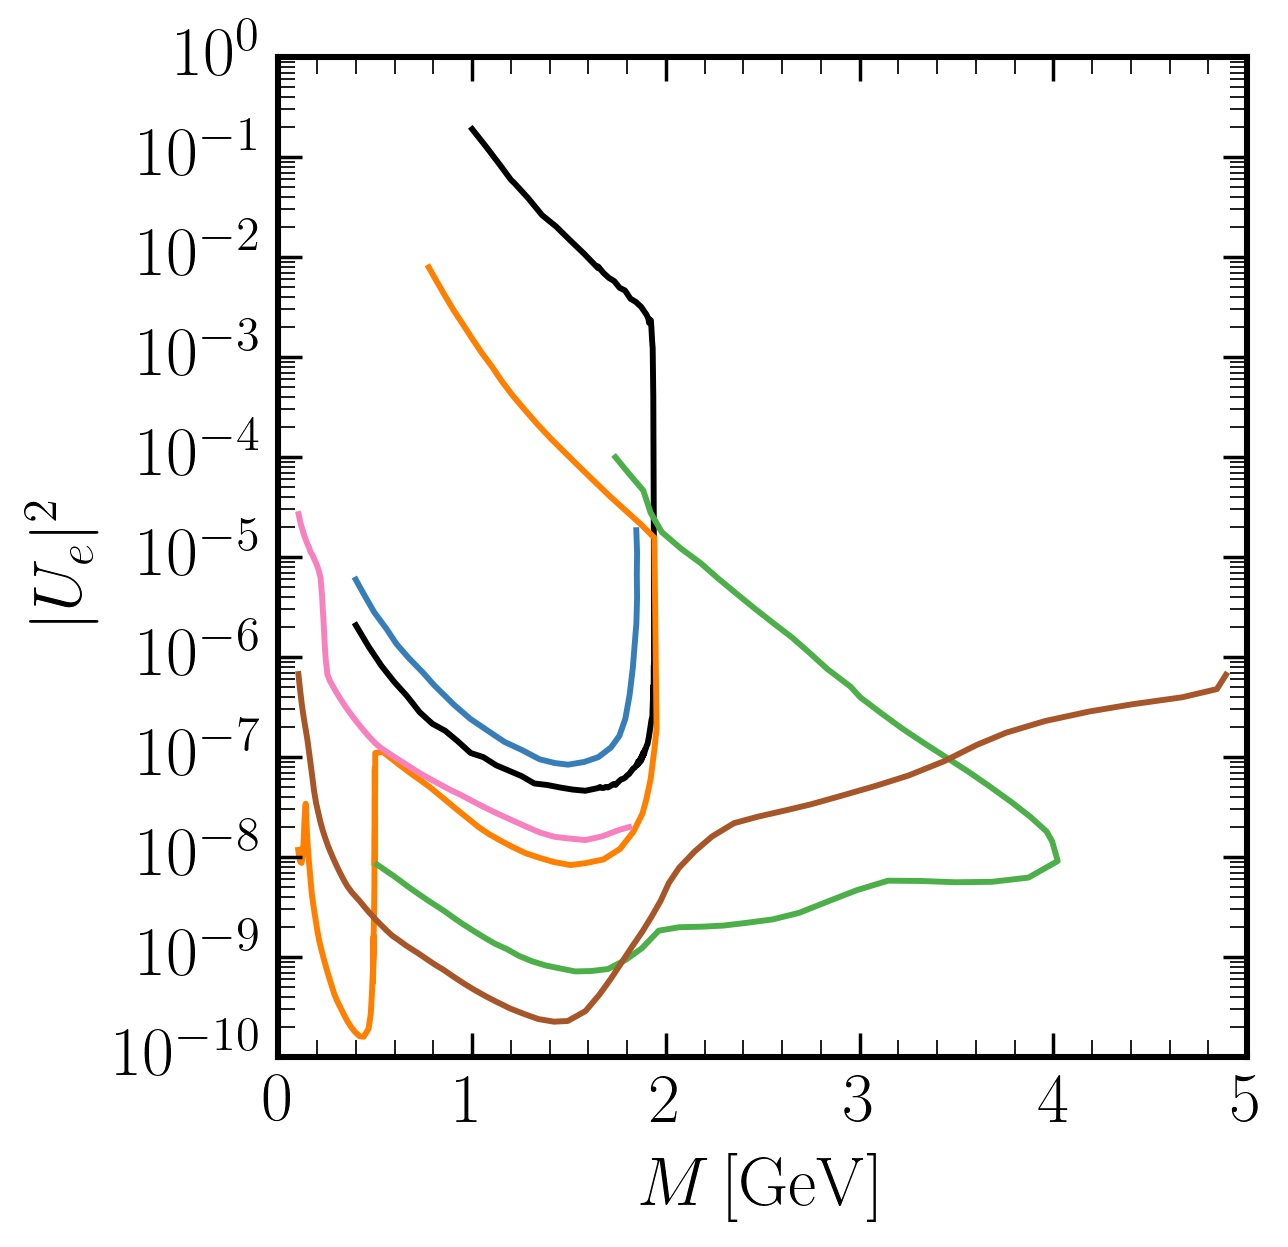
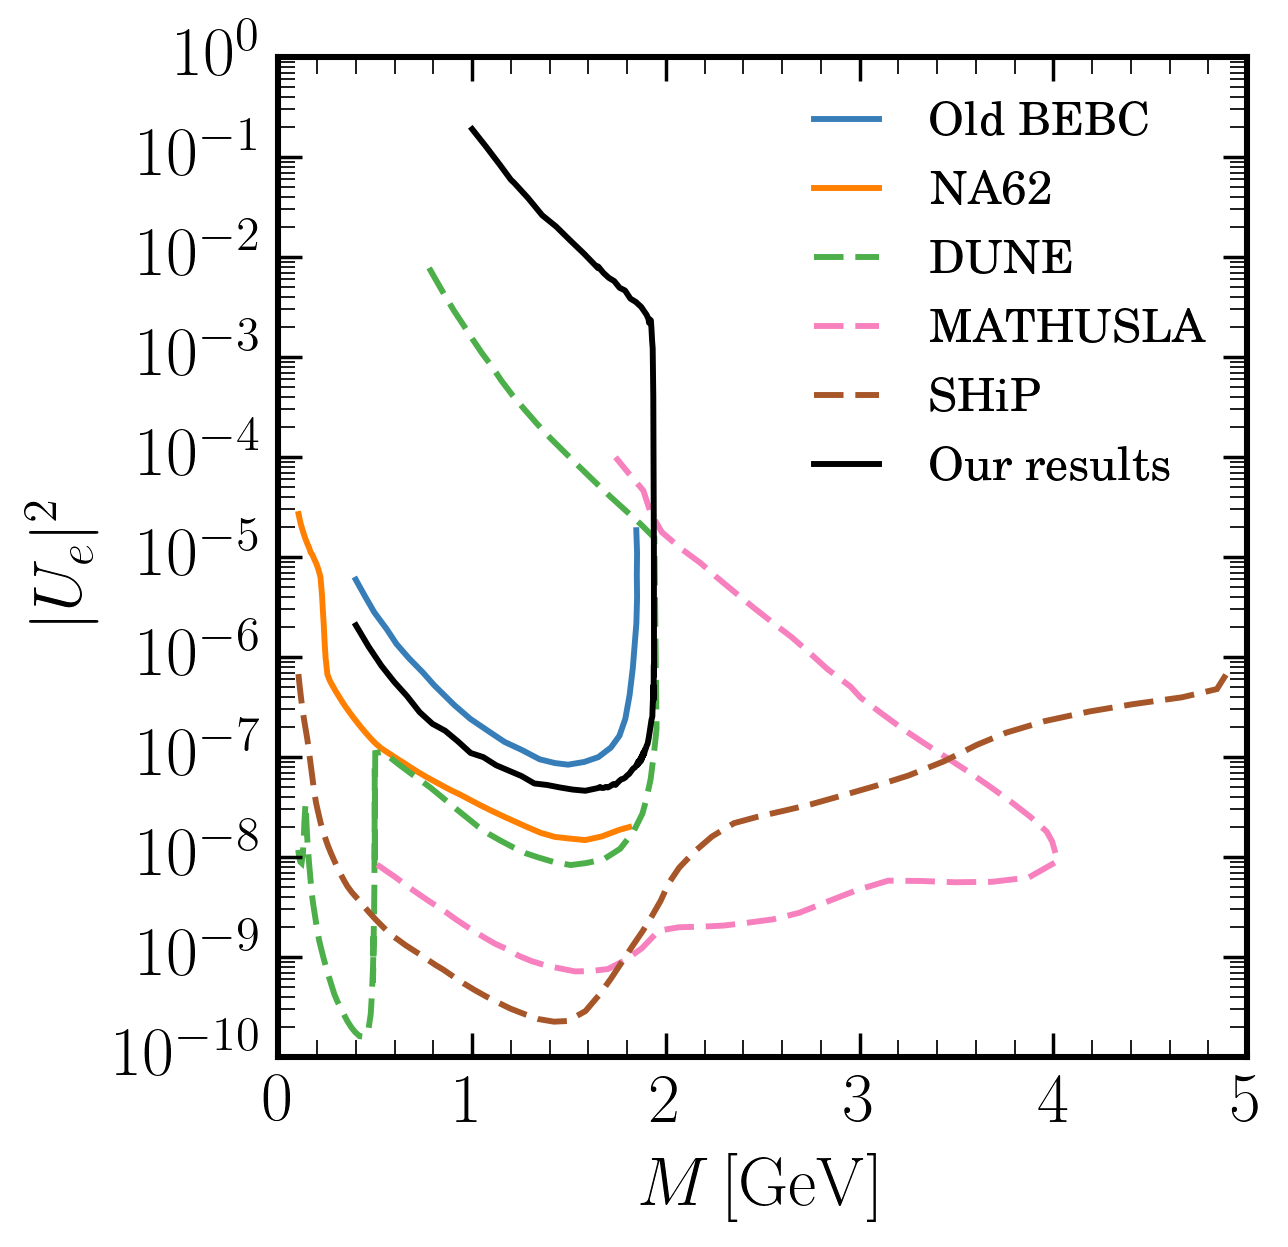
more data and plots

diff --git a/plot_tau_bounds.py b/plot_tau_bounds.py
@@ -14,15 +14,14 @@ mpl.rcParams['axes.prop_cycle'] = cycler(color=['#377eb8', '#ff7f00', '#4daf4a',
                   '#f781bf', '#a65628', '#984ea3',
                   '#999999', '#e41a1c', '#dede00'])
 def main():
-    mixing_type = MixingType.electron
-    upper_bounds = read_csv_file(f"upper_bound_data/upper_bounds_{mixing_type}.csv")
-    # lower_bounds = read_csv_file(f"upper_bound_data/upper_bounds_{mixing_type}.csv")
+    mixing_type = MixingType.tau
+    upper_bounds = read_csv_file(f"upper_bound_data/upper_bounds_{mixing_type}_non_linear.csv")
     lower_bounds = read_csv_file(f"lower_bound_data/lower_bounds_{mixing_type}.csv")
-    bebc = np.array(read_csv_file("./digitised_data/BEBC_electron.csv"))
-    dune = np.array(read_csv_file("./digitised_data/DUNE_electron.csv"))
-    mathusla = np.array(read_csv_file("./digitised_data/MATHUSLA_electron.csv"))
-    na62 = np.array(read_csv_file("./digitised_data/NA62_electron.csv"))
-    ship = np.array(read_csv_file("./digitised_data/SHiP_electron.csv"))
+    charm = np.array(read_csv_file("./digitised_data/CHARM_tau.csv"))
+    delphi = np.array(read_csv_file("./digitised_data/DELPHI_tau.csv"))
+    mathusla = np.array(read_csv_file("./digitised_data/MATHUSLA_tau.csv"))
+    na62 = np.array(read_csv_file("./digitised_data/NA62_tau.csv"))
+    ship = np.array(read_csv_file("./digitised_data/SHiP_tau.csv"))
 
     lower_bounds.sort(key=lambda data: data[0], reverse=True)
     upper_bounds.sort(key=lambda data: data[0])
@@ -33,14 +32,13 @@ def main():
     # # ------------------------ Plotting --------------------------------
     plt.figure(0)
     plt.xlabel(r'$M\, [ \mathrm{GeV}]$')
-    plt.ylabel(r'$|U_{e}|^2$')
-    plt.plot(*get_cols(bebc), label="Old BEBC")
-    plt.plot(*get_cols(na62), label="NA62")
-    plt.plot(*get_cols(dune), '--', dashes=(5,2), label="DUNE")
-    plt.plot(*get_cols(mathusla), '--', dashes=(5,2), label="MATHUSLA")
-    plt.plot(*get_cols(ship), '--', dashes=(5,2), label="SHiP")
-    plt.plot(*get_cols(bounds), 'k', label="Our results")
-    plt.legend(fontsize="small")
+    plt.ylabel(r'$|U_{\tau}|^2$')
+    plt.plot(*get_cols(bounds), 'k')
+    # plt.plot(*get_cols(delphi))
+    plt.plot(*get_cols(charm))
+    # plt.plot(*get_cols(mathusla))
+    # plt.plot(*get_cols(na62))
+    # plt.plot(*get_cols(ship))
     plt.yscale('log')
     dirname = os.path.dirname(os.path.abspath(__file__))
     plt.savefig(os.path.join(dirname, f"recent_graphs/mass_bound_plot[{mixing_type}].png"), dpi=250)
